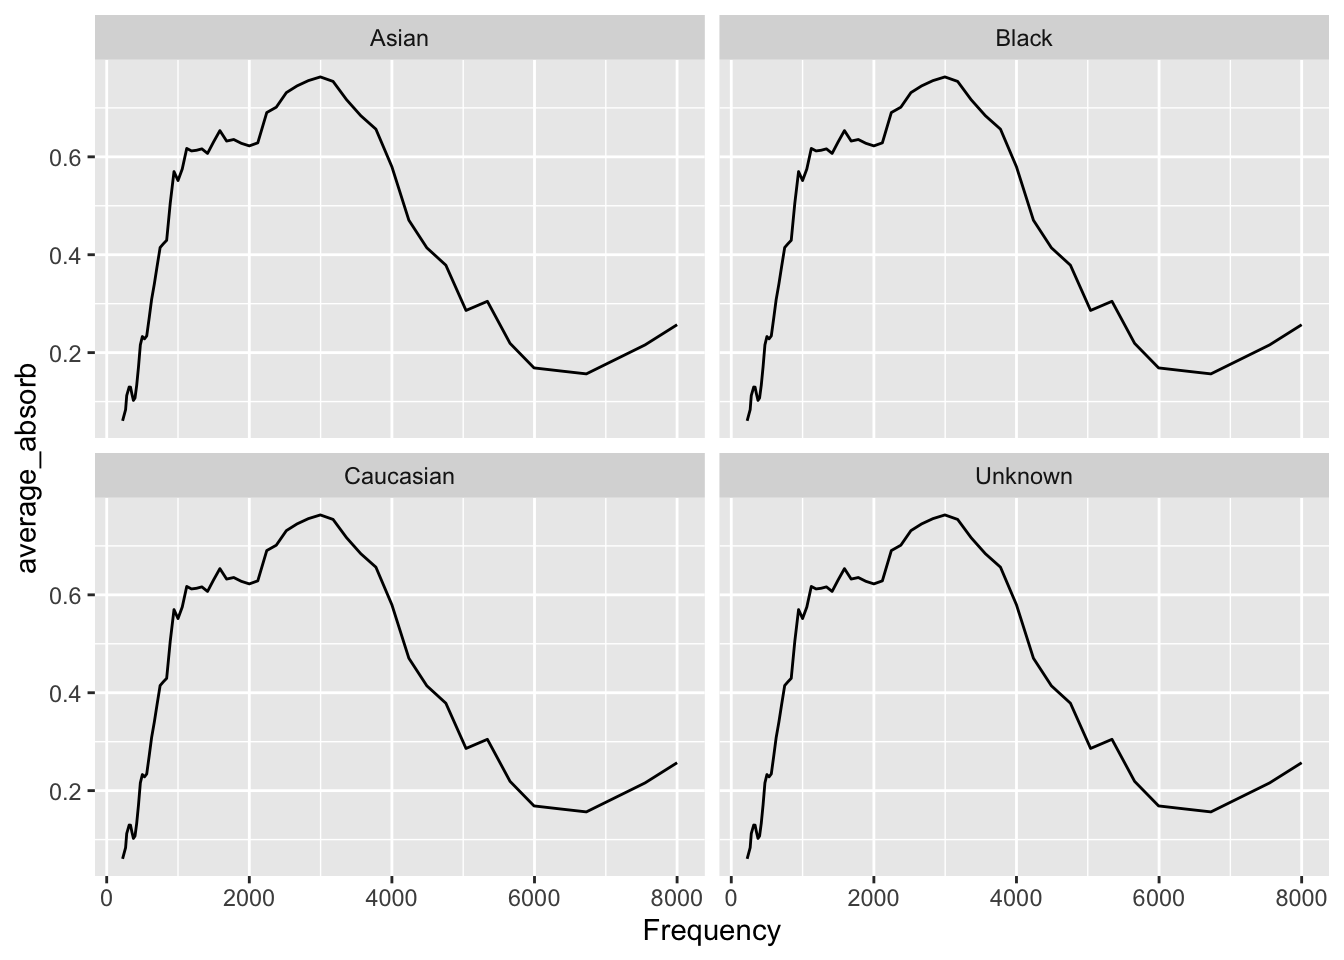
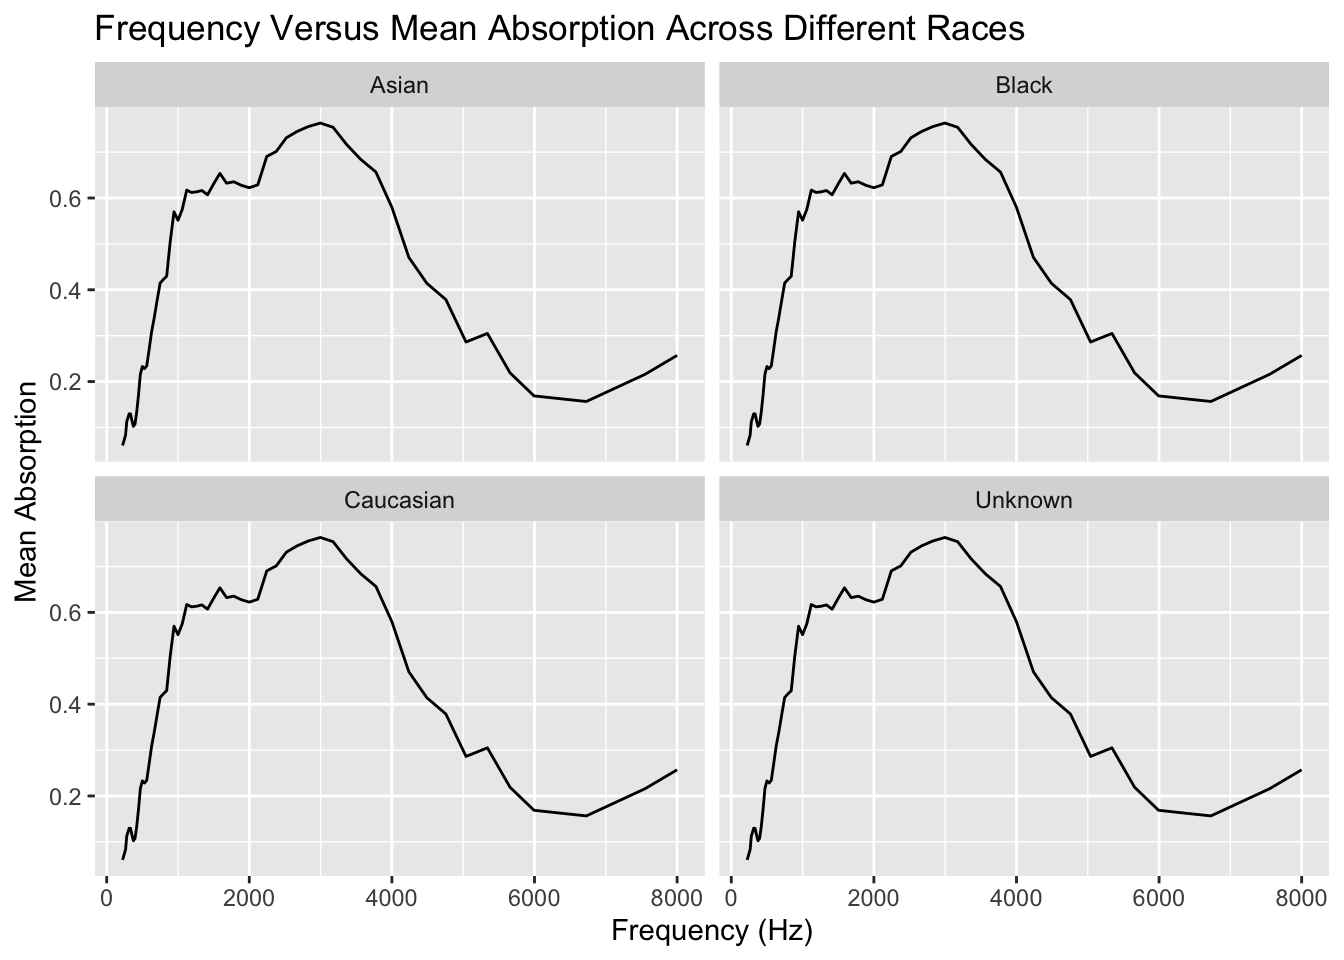
Turn in

diff --git a/docs/miniproj_4.html b/docs/miniproj_4.html
@@ -181,7 +181,7 @@ pre > code.sourceCode > span > a:first-child::before { text-decoration: underlin
   <ul>
   <li><a href="#about-the-database" id="toc-about-the-database" class="nav-link active" data-scroll-target="#about-the-database">About the Database</a></li>
   <li><a href="#duplicating-figures" id="toc-duplicating-figures" class="nav-link" data-scroll-target="#duplicating-figures">Duplicating Figures</a></li>
-  <li><a href="#section" id="toc-section" class="nav-link" data-scroll-target="#section"></a></li>
+  <li><a href="#analysis-of-individual-study" id="toc-analysis-of-individual-study" class="nav-link" data-scroll-target="#analysis-of-individual-study">Analysis of Individual Study</a></li>
   </ul>
 </nav>
     </div>
@@ -256,7 +256,6 @@ pre > code.sourceCode > span > a:first-child::before { text-decoration: underlin
 <section id="duplicating-figures" class="level3">
 <h3 class="anchored" data-anchor-id="duplicating-figures">Duplicating Figures</h3>
 <p>For this analysis, I duplicated figure 1 that’s in “An online wideband acoustic immittance (WAI) database and corresponding website” (Voss 2020). The figure shows a line graph of frequency versus mean absorption of the 12 studies found in WAI database as of July 1, 2019. Its legend contains the authors, year, number of individual ears, and equipment used.</p>
-<p>Here I joined ‘Measurements’ and ‘PI_Info’ through the ‘Identifier’ key so that I could create a table with the 12 studies’ authors, year, absorbance, frequency, and instrument.</p>
 <div class="cell" data-output.var="figure">
 <details class="code-fold">
 <summary>Show the code</summary>
@@ -287,7 +286,6 @@ pre > code.sourceCode > span > a:first-child::before { text-decoration: underlin
 <span id="cb5-6"><a href="#cb5-6" aria-hidden="true" tabindex="-1"></a><span class="kw">HAVING</span> avg_absorb <span class="op">&gt;</span> <span class="dv">0</span>;</span></code><button title="Copy to Clipboard" class="code-copy-button"><i class="bi"></i></button></pre></div>
 </details>
 </div>
-<p>After creating a table, I used ggplot to recreate the plot from Voss 2020.</p>
 <div class="cell">
 <details class="code-fold">
 <summary>Show the code</summary>
@@ -312,9 +310,12 @@ pre > code.sourceCode > span > a:first-child::before { text-decoration: underlin
 </div>
 </div>
 </div>
+<p><a href="https://www.ncbi.nlm.nih.gov/core/lw/2.0/html/tileshop_pmc/tileshop_pmc_inline.html?title=Click%20on%20image%20to%20zoom&amp;p=PMC3&amp;id=7093226_nihms-1535071-f0001.jpg">Link to the figure I’m duplicating</a></p>
+<p>To duplicate the figure using SQL, I first had to pull ‘Measurements’ since the table had the absorbance, frequency, and instrument. Through Measurements, I created a table with columns that include the frequency and average absorbance since those are the two main variables being compared in the graph. Because I needed the author names and years of each study, I needed to pull ‘PI_Info’. Since all the information I needed are still split into two tables, I used <code>JOIN</code>, and joined ‘Measurements’ and ‘PI_Info’ through ‘Identifier’ (since they both had that as a column) to combine the columns I needed and create a table with all the information needed. Once I had the table, I used ggplot to produce a figure that’s similar to Figure 1 from Voss 2020. If we compare them, we can see that the graphs are very similar.</p>
 </section>
-<section id="section" class="level3">
-<h3 class="anchored" data-anchor-id="section"></h3>
+<section id="analysis-of-individual-study" class="level3">
+<h3 class="anchored" data-anchor-id="analysis-of-individual-study">Analysis of Individual Study</h3>
+<p>I chose one of the 12 studies that included different races, sex, and ethnicity. A limitation present in this database is that many of the studies don’t have participants of different races, sex, or ethnicity. However, after taking the time to look at each study, I found that the study (Shaver 2013) included different races, sex, and ethnicity. So, this analysis will compare the frequency versus mean absorption across different races from the study (Shaver 2013).</p>
 <div class="cell" data-output.var="figure2">
 <details class="code-fold">
 <summary>Show the code</summary>
@@ -340,7 +341,10 @@ pre > code.sourceCode > span > a:first-child::before { text-decoration: underlin
 <div class="sourceCode cell-code" id="cb9"><pre class="sourceCode r code-with-copy"><code class="sourceCode r"><span id="cb9-1"><a href="#cb9-1" aria-hidden="true" tabindex="-1"></a>plot2 <span class="sc">|&gt;</span></span>
 <span id="cb9-2"><a href="#cb9-2" aria-hidden="true" tabindex="-1"></a>  <span class="fu">ggplot</span>(<span class="fu">aes</span>(<span class="at">x =</span> Frequency, <span class="at">y =</span> average_absorb)) <span class="sc">+</span></span>
 <span id="cb9-3"><a href="#cb9-3" aria-hidden="true" tabindex="-1"></a>  <span class="fu">geom_line</span>() <span class="sc">+</span></span>
-<span id="cb9-4"><a href="#cb9-4" aria-hidden="true" tabindex="-1"></a>  <span class="fu">facet_wrap</span>(<span class="sc">~</span>Race)</span></code><button title="Copy to Clipboard" class="code-copy-button"><i class="bi"></i></button></pre></div>
+<span id="cb9-4"><a href="#cb9-4" aria-hidden="true" tabindex="-1"></a>  <span class="fu">facet_wrap</span>(<span class="sc">~</span>Race) <span class="sc">+</span></span>
+<span id="cb9-5"><a href="#cb9-5" aria-hidden="true" tabindex="-1"></a>  <span class="fu">labs</span>(<span class="at">title =</span> <span class="st">"Frequency Versus Mean Absorption Across Different Races"</span>,</span>
+<span id="cb9-6"><a href="#cb9-6" aria-hidden="true" tabindex="-1"></a>       <span class="at">x =</span> <span class="st">"Frequency (Hz)"</span>,</span>
+<span id="cb9-7"><a href="#cb9-7" aria-hidden="true" tabindex="-1"></a>       <span class="at">y =</span> <span class="st">"Mean Absorption"</span>)</span></code><button title="Copy to Clipboard" class="code-copy-button"><i class="bi"></i></button></pre></div>
 </details>
 <div class="cell-output-display">
 <div>
@@ -350,6 +354,8 @@ pre > code.sourceCode > span > a:first-child::before { text-decoration: underlin
 </div>
 </div>
 </div>
+<p>For this analysis, I used a similar process as the one I used to duplicate Figure 1 (Voss 2020). I used SQL to pull ‘Measurements’ because it has the data for frequency and absorption. Then I had to pull ‘Subjects’ because it has the data for different races, sex, and ethnicity. To combine the needed information from both tables, I joined Measurements and Subjects through ‘Identifier’ and created a new table with just the author (Shaver), frequency, average absorption, race, sex, and ethnicity. Using the new table and ggplot, I created line graphs based on the race.</p>
+<p>As seen from the plot above, all of the races included in the study have the same line. This might be because of how the study was conducted and how they counted the ears and measured the absorption. But if we simply focus on the different graphs, across the the different races, the average absorption seems to increase when frequency goes up to 3000 Hz but starts to decrease after that.</p>
 
 
 </section>
